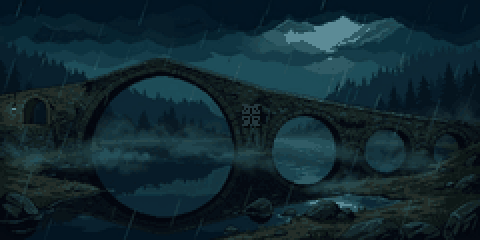
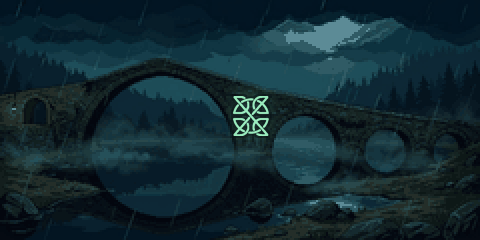
Simbolo misterioso piu' grande e riconoscibile (libro, chiesa nera, ponte, sogno); build 18 nov 18:10

Changed region(s): [[0.4688, 0.3792, 0.5625, 0.5833]]

diff --git a/index.html b/index.html
@@ -10,7 +10,7 @@
 <meta name="theme-color" content="#000000">
 <script>/* (12 nov) pulizia: a ogni versione nuova si tolgono service worker e memoria vecchi e si ricarica una volta.
    Un service worker rimasto da versioni precedenti serviva script e indice delle voci superati (le voci non si sentivano). BUILD0 lo aggiorna pubblica.py. */
-(function(){var BUILD0='18 nov 17:40';try{if(!('serviceWorker' in navigator)||localStorage.getItem('mistero-build')===BUILD0)return;localStorage.setItem('mistero-build',BUILD0);window.__pulizia=1;
+(function(){var BUILD0='18 nov 18:10';try{if(!('serviceWorker' in navigator)||localStorage.getItem('mistero-build')===BUILD0)return;localStorage.setItem('mistero-build',BUILD0);window.__pulizia=1;
  var t=setTimeout(function(){location.reload()},4000);
  Promise.all([navigator.serviceWorker.getRegistrations().then(function(rs){return Promise.all(rs.map(function(r){return r.unregister()}))}),
    window.caches?caches.keys().then(function(ks){return Promise.all(ks.map(function(k){return caches.delete(k)}))}):0]).then(function(){clearTimeout(t);location.reload()},function(){clearTimeout(t);location.reload()})}catch(e){}})();</script>
@@ -81,11 +81,11 @@ button:active{background:#1a2438;transform:translate(1px,1px)}
 <div id="probe" style="position:fixed;visibility:hidden;pointer-events:none;padding:env(safe-area-inset-top) env(safe-area-inset-right) env(safe-area-inset-bottom) env(safe-area-inset-left)"></div>
 <div id="rot"><i></i><div>RUOTA IL TELEFONO<br>IN ORIZZONTALE</div></div>
 
-<script src="js/motore.js?v=18nov1740"></script>
-<script src="js/scena-demo.js?v=18nov1740"></script>
-<script src="js/scena-tutti.js?v=18nov1740"></script>
-<script src="js/scena-ramones.js?v=18nov1740"></script>
-<script src="js/scena-capitolo2.js?v=18nov1740"></script>
+<script src="js/motore.js?v=18nov1810"></script>
+<script src="js/scena-demo.js?v=18nov1810"></script>
+<script src="js/scena-tutti.js?v=18nov1810"></script>
+<script src="js/scena-ramones.js?v=18nov1810"></script>
+<script src="js/scena-capitolo2.js?v=18nov1810"></script>
 <script>
 (()=>{
 "use strict";
@@ -583,7 +583,7 @@ const IMG_DREAM=[mkImg('img/emb/img_dream_0.png'),mkImg('img/emb/img_dream_1.png
 const IMG_WOMAN=mkImg('img/emb/img_woman.png');
 const IMG_CAB=mkImg('img/emb/img_cab.png');
 /* sprite degli oggetti (generati da riferimenti, ridotti): sostituiscono quelli a codice */
-const SPRI={'palla_carta':mkImg('img/emb/spr_palla_carta.png'),'book_open_big':mkImg('img/emb/spr_book_open_big_r2.png'),'book_locked':mkImg('img/emb/spr_book_locked_r2.png'),'book_locked_small':mkImg('img/emb/spr_book_locked_small_r2.png'),'book_open':mkImg('img/emb/spr_book_open_r2.png'),'candle_lit':mkImg('img/emb/spr_candle_lit_r2.png'),'candle_lit_big':mkImg('img/emb/spr_candle_lit_big_r2.png'),'candle_unlit_big':mkImg('img/emb/spr_candle_unlit_big_r2.png'),'candle_unlit_mid':mkImg('img/emb/spr_candle_unlit_mid_r2.png'),'comic':mkImg('img/emb/spr_comic.png'),'comic_small':mkImg('img/emb/spr_comic_small.png'),'key':mkImg('img/emb/spr_key.png'),'key_small':mkImg('img/emb/spr_key_small.png'),'matchbox':mkImg('img/emb/spr_matchbox_r2.png'),'matchbox_small':mkImg('img/emb/spr_matchbox_small_r2.png'),'matchburn':mkImg('img/emb/spr_matchburn.png'),'symbol':mkImg('img/emb/spr_symbol.png')};
+const SPRI={'palla_carta':mkImg('img/emb/spr_palla_carta.png'),'book_open_big':mkImg('img/emb/spr_book_open_big_r2.png'),'book_locked':mkImg('img/emb/spr_book_locked_r2.png'),'book_locked_small':mkImg('img/emb/spr_book_locked_small_r2.png'),'book_open':mkImg('img/emb/spr_book_open_r2.png'),'candle_lit':mkImg('img/emb/spr_candle_lit_r2.png'),'candle_lit_big':mkImg('img/emb/spr_candle_lit_big_r2.png'),'candle_unlit_big':mkImg('img/emb/spr_candle_unlit_big_r2.png'),'candle_unlit_mid':mkImg('img/emb/spr_candle_unlit_mid_r2.png'),'comic':mkImg('img/emb/spr_comic.png'),'comic_small':mkImg('img/emb/spr_comic_small.png'),'key':mkImg('img/emb/spr_key.png'),'key_small':mkImg('img/emb/spr_key_small.png'),'matchbox':mkImg('img/emb/spr_matchbox_r2.png'),'matchbox_small':mkImg('img/emb/spr_matchbox_small_r2.png'),'matchburn':mkImg('img/emb/spr_matchburn.png'),'symbol':mkImg('img/emb/spr_symbol_r2.png')};
 const IMG_LOG=mkImg('img/emb/img_log_r2.png');
 const IMG_TREES=['img/emb/img_trees_0.png','img/emb/img_trees_1.png','img/emb/img_trees_2.png','img/emb/img_trees_3.png','img/emb/img_trees_4.png'].map(mkImg);
 const TREEC={};
@@ -1067,7 +1067,7 @@ const SPR={"matchbox":{"w":14,"h":22,"pal":["#f3d678","#bad5d9","#f9b57e","#ec98
 const SPRT={};
 /* (18 nov) SPRK = fattore di risoluzione degli sprite: alcuni oggetti sono disegnati al DOPPIO della risoluzione di prima (come gli sfondi 480x240) e si mostrano a meta' misura:
    lw(t)/lh(t) = larghezza/altezza LOGICHE */
-const SPRK={book_open_big:2,book_locked:2,book_locked_small:2,book_open:2,candle_lit:2,candle_lit_big:2,candle_unlit_big:2,candle_unlit_mid:2,matchbox:2,matchbox_small:2};
+const SPRK={symbol:2,book_open_big:2,book_locked:2,book_locked_small:2,book_open:2,candle_lit:2,candle_lit_big:2,candle_unlit_big:2,candle_unlit_mid:2,matchbox:2,matchbox_small:2};
 const lw=t=>t.width/(t.k||1),lh=t=>t.height/(t.k||1);
 function sprTex(k){if(SPRT[k])return SPRT[k];const im=SPRI[k];if(im&&im.complete&&im.naturalWidth){const t=mkTex(im.naturalWidth,im.naturalHeight,c=>{c.imageSmoothingEnabled=false;c.drawImage(im,0,0)});t.k=SPRK[k]||1;return SPRT[k]=t}const d=SPR[k];const tx=mkTex(d.w,d.h,c=>{d.rows.forEach((r,j)=>{for(let i=0;i<r.length;i++){const ch=r[i];if(ch!=='.')R(i,j,1,1,d.pal['0123456789abcdefghijklmnopqrstuvwxyz'.indexOf(ch)],c)}})});return im?tx:(SPRT[k]=tx)}
 function spr(k,x,y,flip=false,a=1){const t=sprTex(k);g.globalAlpha=a;
@@ -1201,7 +1201,7 @@ function drawIDrag(){
   g.globalAlpha=.55;R(x-3,y-3,w+6,h+6,'rgba(216,207,176,.3)');g.globalAlpha=1;g.drawImage(ic.t,x,y,w,h)}
 
 /* libro aperto: due pagine con righe di una scrittura inventata e il simbolo al centro, tutto in inchiostro senape */
-const INK='#a67c1a';
+const INK='#6a4208';   // (18 nov) inchiostro piu' scuro: testo e simbolo leggibili sulla pergamena
 function glyph(x,y,sd){const st=Math.floor(hash(sd*1.7)*5);
   for(let j=0;j<5;j++)for(let i=0;i<3;i++){const h=hash(sd*3.1+i*7+j*13);if(h>.5||(i===1&&j===st)||(j===0&&i!==1&&h>.3))R(x+i,y+j,1,1,INK)}}
 function runeLine(x0,x1,y,sd){let x=x0,w=0;
@@ -1213,7 +1213,7 @@ function paintBook(){
   const bx=41,by=3,bo=sprTex('book_open_big');g.drawImage(bo,bx,by,lw(bo),lh(bo));
   for(let i=0;i<10;i++)runeLine(bx+24,bx+(i%4===3?58:68),by+13+i*7,i+1);           // pagina sinistra
   runeLine(bx+96,bx+126,by+13,41);runeLine(bx+101,bx+121,by+20,43);                  // pagina destra: titolo
-  g.drawImage(sprTex('symbol'),bx+98,by+28);                                         // simbolo grande al centro
+  {const sy=sprTex('symbol');g.drawImage(sy,bx+95,by+26,lw(sy),lh(sy))}                // simbolo grande al centro (34 px logici, a risoluzione doppia)
   for(let i=0;i<3;i++)runeLine(bx+88,bx+(i===2?118:134),by+62+i*7,60+i)}
 function drawCU(){
   if(!CU.id)return;const it=ITEMS[CU.id],t=itemTex(CU.id),a=sm((NOW-CU.t0)/.22);
@@ -2149,7 +2149,7 @@ document.addEventListener('wheel',e=>{if(e.ctrlKey)e.preventDefault()},{passive:
 document.addEventListener('visibilitychange',()=>{if(document.hidden){if(SILENT_EL)SILENT_EL.pause()}else if(AU.ctx)unmuteSilentSwitch();if(AU.ctx){if(document.hidden)AU.ctx.suspend();else AU.ctx.resume()}});
 
 /* aggiornamento automatico: se sul server c'e' una versione piu' nuova di questa, ricarica una volta (cancella anche le copie salvate) */
-const BUILD='18 nov 17:40';
+const BUILD='18 nov 18:10';
 {const ve=document.getElementById('ver');if(ve)ve.textContent='v. '+BUILD;
  if(location.protocol.startsWith('http')){
   fetch(location.pathname+'?nc='+Date.now(),{cache:'no-store'}).then(r=>r.ok?r.text():'').then(t=>{

diff --git a/sw.js b/sw.js
@@ -1,7 +1,7 @@
 // Service worker: il gioco funziona offline.
 // - i file del gioco (immagini, audio, icone) sono salvati alla prima apertura (sempre scaricati freschi: cache reload) e serviti dalla memoria del telefono;
 // - la pagina, gli script (.js), gli indici (.json) e questo file si chiedono prima alla rete (cosi' gli aggiornamenti arrivano subito) e, senza rete, si usa la copia salvata.
-const VERSION = "18 nov 17:40";
+const VERSION = "18 nov 18:10";
 const CACHE = "mistero-" + VERSION;
 const FILES = [
   "./",
@@ -648,7 +648,7 @@ const FILES = [
   "img/emb/spr_matchbox_small_r2.png",
   "img/emb/spr_matchburn.png",
   "img/emb/spr_palla_carta.png",
-  "img/emb/spr_symbol.png",
+  "img/emb/spr_symbol_r2.png",
   "img/scene/casello-cabina.png",
   "img/scene/casello-chiosco.png",
   "img/scene/casello-piazzale.png",
